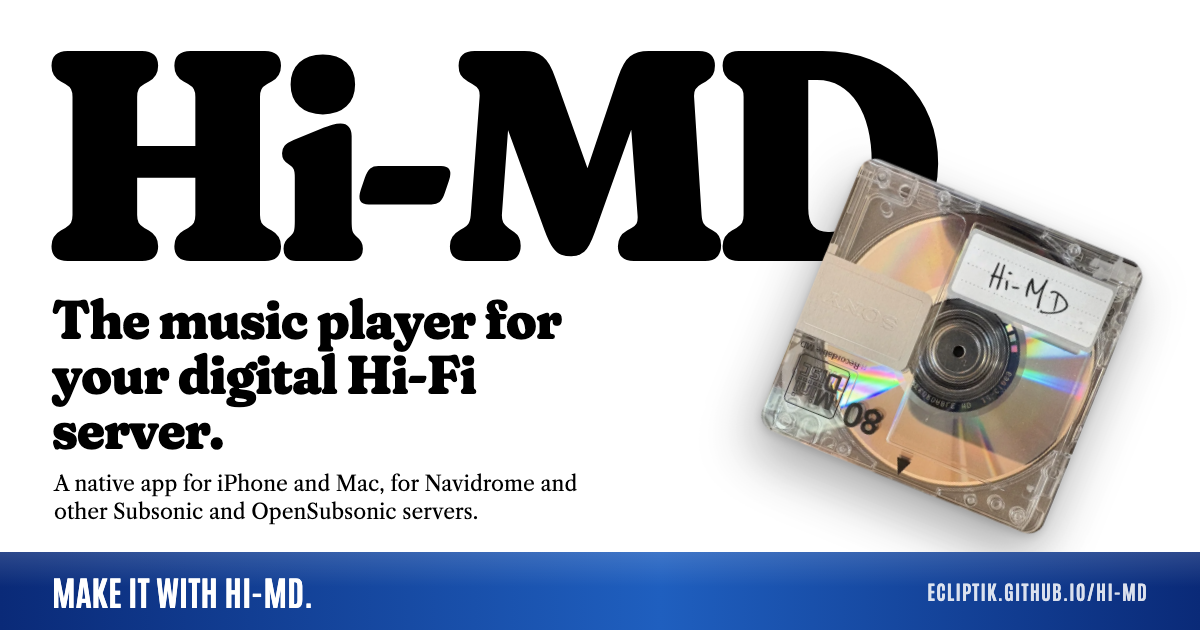
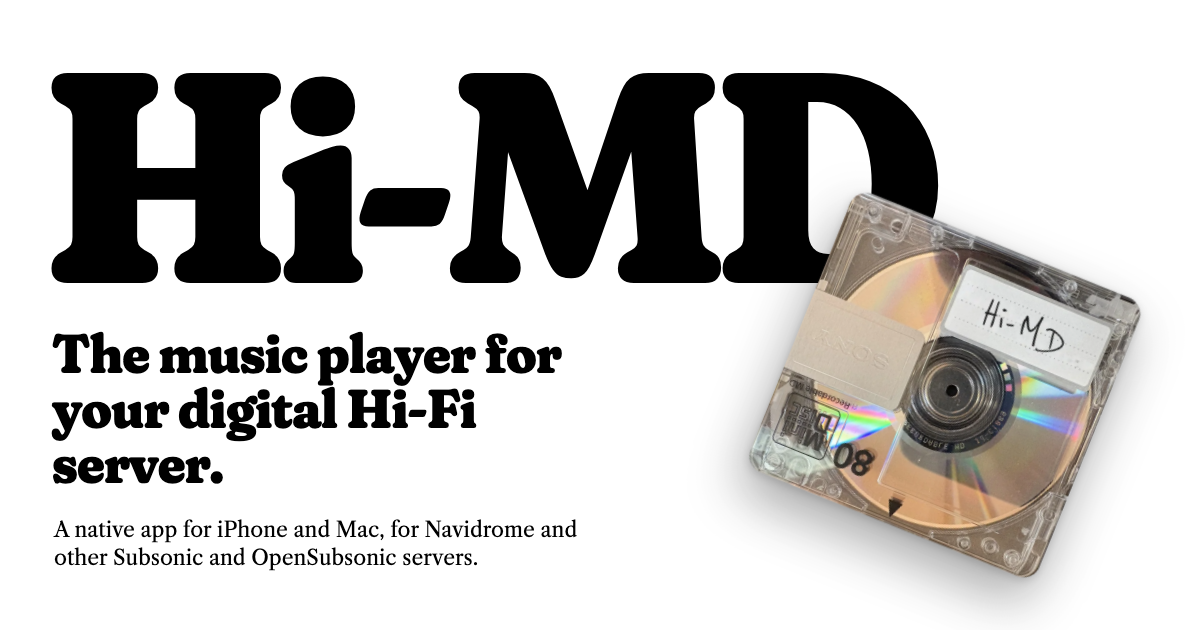
docs(site): the social preview without the band

diff --git a/docs/index.html b/docs/index.html
@@ -16,12 +16,12 @@
   <meta property="og:image" content="https://ecliptik.github.io/hi-md/og-image.png">
   <meta property="og:image:width" content="1200">
   <meta property="og:image:height" content="630">
-  <meta property="og:image:alt" content="Hi-MD: the music player for your digital Hi-Fi server, with the Hi-MD disc. Make it with Hi-MD.">
+  <meta property="og:image:alt" content="Hi-MD: the music player for your digital Hi-Fi server, with the Hi-MD disc.">
   <meta name="twitter:card" content="summary_large_image">
   <meta name="twitter:title" content="Hi-MD — a music player for your own server">
   <meta name="twitter:description" content="Hi-MD is a native music player for iPhone and Mac, for Navidrome and other Subsonic servers.">
   <meta name="twitter:image" content="https://ecliptik.github.io/hi-md/og-image.png">
-  <meta name="twitter:image:alt" content="Hi-MD: the music player for your digital Hi-Fi server, with the Hi-MD disc. Make it with Hi-MD.">
+  <meta name="twitter:image:alt" content="Hi-MD: the music player for your digital Hi-Fi server, with the Hi-MD disc.">
 
   <link rel="icon" type="image/png" sizes="32x32" href="assets/favicon-32.png">
   <link rel="apple-touch-icon" href="assets/apple-touch-icon.png">
